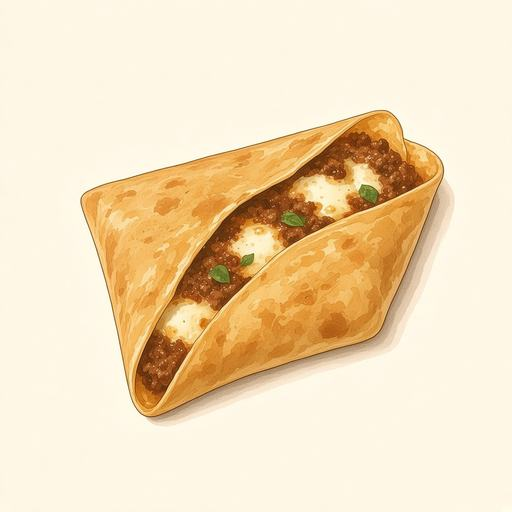
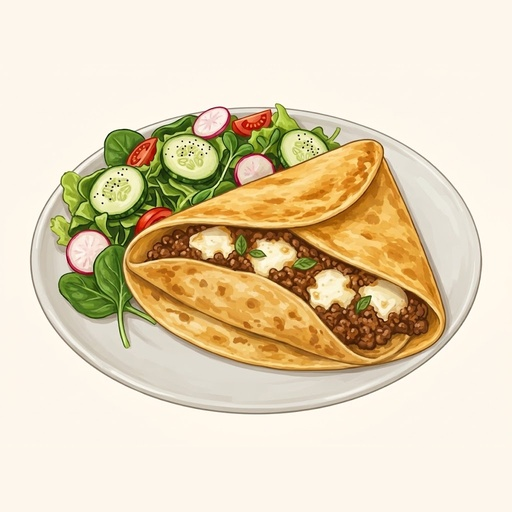
V10.3

diff --git a/src/data/menu.ts b/src/data/menu.ts
@@ -170,6 +170,7 @@ const brunchJuiceChoice = {
 
 // Common supplements
 const chantillySupplement = { nameFr: 'Chantilly', nameEn: 'Whipped cream', nameAr: 'كريمة شانتيي', price: 5 };
+const iceCreamScoopSupplement = { nameFr: 'Boule de glace', nameEn: 'Scoop of ice cream', nameAr: 'كرة آيس كريم', price: 10 };
 const sauceFromagere = { nameFr: 'Sauce fromagère spéciale', nameEn: 'Special cheese sauce', nameAr: 'صلصة جبن خاصة', price: 15 };
 
 // ─── MENU ITEMS ──────────────────────────────────────────────────
@@ -619,8 +620,8 @@ export const menuItems: MenuItem[] = [
     categoryId: 'miauthe',
     nameFr: 'Thé marocain',
     nameEn: 'Moroccan Tea',
-    descriptionFr: 'Thé vert à la menthe fraîche, tradition marocaine',
-    descriptionEn: 'Green tea with fresh mint, Moroccan tradition',
+    descriptionFr: 'Thé vert à la menthe fraîche ou verveine, tradition marocaine.',
+    descriptionEn: 'Green tea with fresh mint or verbena, Moroccan tradition.',
     price: 20,
     tags: ['hot', 'traditional'],
     badges: ['popular'],
@@ -1327,6 +1328,30 @@ export const menuItems: MenuItem[] = [
     available: true,
     supplements: [chantillySupplement],
   },
+  {
+    id: 'crepe-tagliatelles-nutella-caramel',
+    categoryId: 'crepes-sucrees',
+    nameFr: 'Tagliatelles de Crêpe Nutella et caramel',
+    nameEn: 'Nutella & Caramel Crepe Tagliatelle',
+    descriptionFr: 'Lanières de crêpes nappées de Nutella et de caramel, accompagnées de crème anglaise',
+    descriptionEn: 'Crepe strips drizzled with Nutella and caramel, served with crème anglaise',
+    price: 55,
+    tags: ['chocolate'],
+    badges: [],
+    available: true,
+  },
+  {
+    id: 'crepe-tagliatelles-coulis-fruits-rouges',
+    categoryId: 'crepes-sucrees',
+    nameFr: 'Tagliatelles de Crêpe au coulis de fruits rouges',
+    nameEn: 'Red Berry Coulis Crepe Tagliatelle',
+    descriptionFr: 'Lanières de crêpe nappées de coulis de fruits rouges',
+    descriptionEn: 'Crepe strips drizzled with red berry coulis',
+    price: 55,
+    tags: [],
+    badges: [],
+    available: true,
+  },
 
   // ══════════════════════════════════════════════════════════════
   // 🧇 GAUFRES SUCRÉES
@@ -1748,6 +1773,18 @@ export const menuItems: MenuItem[] = [
     available: true,
     supplements: [sauceFromagere],
   },
+  {
+    id: 'panuozzo',
+    categoryId: 'pizzas',
+    nameFr: 'Panuozzo',
+    nameEn: 'Panuozzo',
+    descriptionFr: 'Pain panuozzo garni de viande, champignons poêlés, fromage, salade et tomate, accompagné d’une salade verte',
+    descriptionEn: 'Panuozzo bread filled with meat, sautéed mushrooms, cheese, lettuce and tomato, served with a green salad',
+    price: 65,
+    tags: [],
+    badges: [],
+    available: true,
+  },
 
   // ══════════════════════════════════════════════════════════════
   // 🍔 BURGERS
@@ -1878,15 +1915,63 @@ export const menuItems: MenuItem[] = [
   // 🍰 GÂTEAUX ET DESSERTS
   // ══════════════════════════════════════════════════════════════
   {
-    id: 'dessert-brookie',
+    id: 'dessert-cheesecake-chocolat',
     categoryId: 'gateaux-desserts',
-    nameFr: 'Brookie',
-    nameEn: 'Brookie',
-    descriptionFr: 'Mi-brownie, mi-cookie',
-    descriptionEn: 'Half brownie, half cookie',
-    price: 65,
+    nameFr: 'Cheesecake chocolat',
+    nameEn: 'Chocolate Cheesecake',
+    descriptionFr: 'Cheesecake au chocolat, garni de miettes chocolatées et de noisettes',
+    descriptionEn: 'Chocolate cheesecake topped with chocolate crumbles and hazelnuts',
+    price: 45,
     tags: ['chocolate'],
-    badges: ['new'],
+    badges: [],
+    available: true,
+  },
+  {
+    id: 'dessert-cheesecake-fruits-rouges',
+    categoryId: 'gateaux-desserts',
+    nameFr: 'Cheesecake fruits rouges',
+    nameEn: 'Red Berry Cheesecake',
+    descriptionFr: 'Cheesecake aux fruits rouges, garni de framboises, mûres et crème fouettée sur une base biscuitée',
+    descriptionEn: 'Red berry cheesecake topped with raspberries, blackberries and whipped cream on a biscuit base',
+    price: 45,
+    tags: [],
+    badges: [],
+    available: true,
+  },
+  {
+    id: 'dessert-fondant-pistache',
+    categoryId: 'gateaux-desserts',
+    nameFr: 'Fondant pistache',
+    nameEn: 'Pistachio Fondant',
+    descriptionFr: 'Fondant à la pistache nappé de crème de pistache et décoré de pistaches concassées',
+    descriptionEn: 'Pistachio fondant topped with pistachio cream and crushed pistachios',
+    price: 55,
+    tags: [],
+    badges: [],
+    available: true,
+  },
+  {
+    id: 'dessert-fondant-chocolat',
+    categoryId: 'gateaux-desserts',
+    nameFr: 'Fondant chocolat',
+    nameEn: 'Chocolate Fondant',
+    descriptionFr: 'Fondant au chocolat nappé de chocolat et décoré de copeaux de chocolat',
+    descriptionEn: 'Chocolate fondant topped with chocolate sauce and chocolate shavings',
+    price: 35,
+    tags: ['chocolate'],
+    badges: [],
+    available: true,
+  },
+  {
+    id: 'dessert-finger-vanille-pecan',
+    categoryId: 'gateaux-desserts',
+    nameFr: 'Finger vanille pecan',
+    nameEn: 'Vanilla Pecan Finger',
+    descriptionFr: 'Finger chocolaté garni de crème à la vanille et de noix de pécan',
+    descriptionEn: 'Chocolate finger pastry topped with vanilla cream and pecans',
+    price: 35,
+    tags: ['chocolate'],
+    badges: [],
     available: true,
   },
   {
@@ -1902,18 +1987,6 @@ export const menuItems: MenuItem[] = [
     available: true,
   },
   {
-    id: 'dessert-chocolat-glace',
-    categoryId: 'gateaux-desserts',
-    nameFr: 'Chocolat Glacé',
-    nameEn: 'Chocolate with Ice Cream',
-    descriptionFr: 'Brownie avec boule de glace',
-    descriptionEn: 'Brownie with ice cream scoop',
-    price: 45,
-    tags: ['chocolate', 'cold'],
-    badges: ['popular'],
-    available: true,
-  },
-  {
     id: 'dessert-cookies-pie',
     categoryId: 'gateaux-desserts',
     nameFr: 'Cookies',
@@ -1924,6 +1997,20 @@ export const menuItems: MenuItem[] = [
     tags: ['chocolate'],
     badges: ['popular'],
     available: true,
+    supplements: [iceCreamScoopSupplement],
+  },
+  {
+    id: 'dessert-brookie',
+    categoryId: 'gateaux-desserts',
+    nameFr: 'Brookie',
+    nameEn: 'Brookie',
+    descriptionFr: 'Mi-brownie, mi-cookie',
+    descriptionEn: 'Half brownie, half cookie',
+    price: 65,
+    tags: ['chocolate'],
+    badges: ['new'],
+    available: true,
+    supplements: [iceCreamScoopSupplement],
   },
   {
     id: 'dessert-tiramisu',
@@ -1935,6 +2022,18 @@ export const menuItems: MenuItem[] = [
     price: 35,
     tags: ['chocolate'],
     badges: [],
+    available: true,
+  },
+  {
+    id: 'dessert-chocolat-glace',
+    categoryId: 'gateaux-desserts',
+    nameFr: 'Chocolat Glacé',
+    nameEn: 'Chocolate with Ice Cream',
+    descriptionFr: 'Brownie avec boule de glace',
+    descriptionEn: 'Brownie with ice cream scoop',
+    price: 45,
+    tags: ['chocolate', 'cold'],
+    badges: ['popular'],
     available: true,
   },
   {

diff --git a/src/i18n/arMenu.ts b/src/i18n/arMenu.ts
@@ -109,7 +109,7 @@ export const arCopy: Record<string, ArCopy> = {
   'chocomeow-chaud': { name: 'Chocomeow ساخن', description: 'شوكولاتة ساخنة ناعمة' },
   'chocomeow-fondu': { name: 'Chocomeow ذائب', description: 'شوكولاتة ذائبة غنية' },
 
-  'miauthe-marocain': { name: 'أتاي مغربي', description: 'شاي أخضر بالنعناع الطري، على الطريقة المغربية' },
+  'miauthe-marocain': { name: 'أتاي مغربي', description: 'شاي أخضر بالنعناع الطازج أو اللويزة، على الطريقة المغربية' },
   'miauthe-noir': { name: 'شاي أسود', description: 'شاي أسود كلاسيكي' },
   'miauthe-verveine': { name: 'لويزة', description: 'منقوع اللويزة بنكهة الليمون' },
   'miauthe-verveine-lait': { name: 'لويزة بالحليب', description: 'منقوع اللويزة مع الحليب الساخن' },
@@ -169,6 +169,14 @@ export const arCopy: Record<string, ArCopy> = {
   'crepe-fruits-rouges-coulis': { name: 'كريب الفواكه الحمراء', description: 'كريب بصلصة الكولي وحبة توت في الوسط' },
   'crepe-kunafa-dubai': { name: 'كريب كنافة دبي', description: 'كنافة، فستق ونوتيلا' },
   'crepe-fruits-saison': { name: 'كريب نوتيلا أو كراميل بفواكه الموسم', description: 'كريب بنوتيلا أو الكراميل وفواكه الموسم الطرية' },
+  'crepe-tagliatelles-nutella-caramel': {
+    name: 'شرائح كريب بالنوتيلا والكراميل',
+    description: 'شرائح كريب مغطاة بالنوتيلا والكراميل، تُقدَّم مع الكريمة الإنجليزية',
+  },
+  'crepe-tagliatelles-coulis-fruits-rouges': {
+    name: 'شرائح كريب بكولي الفواكه الحمراء',
+    description: 'شرائح كريب مغطاة بكولي الفواكه الحمراء',
+  },
 
   'gaufre-nutella': { name: 'غوفر نوتيلا', description: 'غوفر مقرمش مغطى بنوتيلا' },
   'gaufre-nutella-banane': { name: 'غوفر نوتيلا وموز', description: 'غوفر، نوتيلا وموز طري' },
@@ -217,6 +225,10 @@ export const arCopy: Record<string, ArCopy> = {
   'pizza-quatre-fromages': { name: 'بيتزا الأجبان الأربعة', description: 'موزاريلا، جبن الماعز، غورغونزولا، إمنتال' },
   'pizza-pepperoni': { name: 'بيتزا بيبروني', description: 'بيبروني، موزاريلا، صلصة الطماطم' },
   'pizza-fruits-de-mer': { name: 'بيتزا فواكه البحر', description: 'فواكه البحر، موزاريلا، صلصة الطماطم' },
+  panuozzo: {
+    name: 'بانوتسو',
+    description: 'خبز بانوتسو محشو باللحم والفطر المقلي والجبن والخس والطماطم، يقدم مع سلطة خضراء',
+  },
 
   'burger-catcheese': {
     name: "Cat'Cheese Burger",
@@ -238,6 +250,26 @@ export const arCopy: Record<string, ArCopy> = {
   'crepe-salee-fruits-de-mer': { name: 'كريب فواكه البحر', description: 'كريب محشو بفواكه البحر' },
   'crepe-salee-mixte': { name: 'كريب مشكل', description: 'كريب بحشوة مشكلة' },
 
+  'dessert-cheesecake-chocolat': {
+    name: 'تشيز كيك بالشوكولاتة',
+    description: 'تشيز كيك بالشوكولاتة مزين بفتات الشوكولاتة والبندق',
+  },
+  'dessert-finger-vanille-pecan': {
+    name: 'فينغر بالفانيليا والبيكان',
+    description: 'حلوى فينغر بالشوكولاتة مزينة بكريمة الفانيليا وجوز البيكان',
+  },
+  'dessert-cheesecake-fruits-rouges': {
+    name: 'تشيز كيك بالفواكه الحمراء',
+    description: 'تشيز كيك بالفواكه الحمراء مزين بالتوت الأحمر والأسود والكريمة المخفوقة على قاعدة من البسكويت',
+  },
+  'dessert-fondant-pistache': {
+    name: 'فوندان بالفستق',
+    description: 'فوندان بالفستق مغطى بكريمة الفستق ومزين بالفستق المجروش',
+  },
+  'dessert-fondant-chocolat': {
+    name: 'فوندان بالشوكولاتة',
+    description: 'فوندان بالشوكولاتة مغطى بصلصة الشوكولاتة ومزين برقائق الشوكولاتة',
+  },
   'dessert-brookie': { name: 'بروكي', description: 'نصف براوني ونصف كوكي' },
   'dessert-brownie': { name: 'براوني', description: 'براوني شوكولاتة ذائب' },
   'dessert-chocolat-glace': { name: 'شوكولاتة بالمثلجات', description: 'براوني مع كرة مثلجات' },
